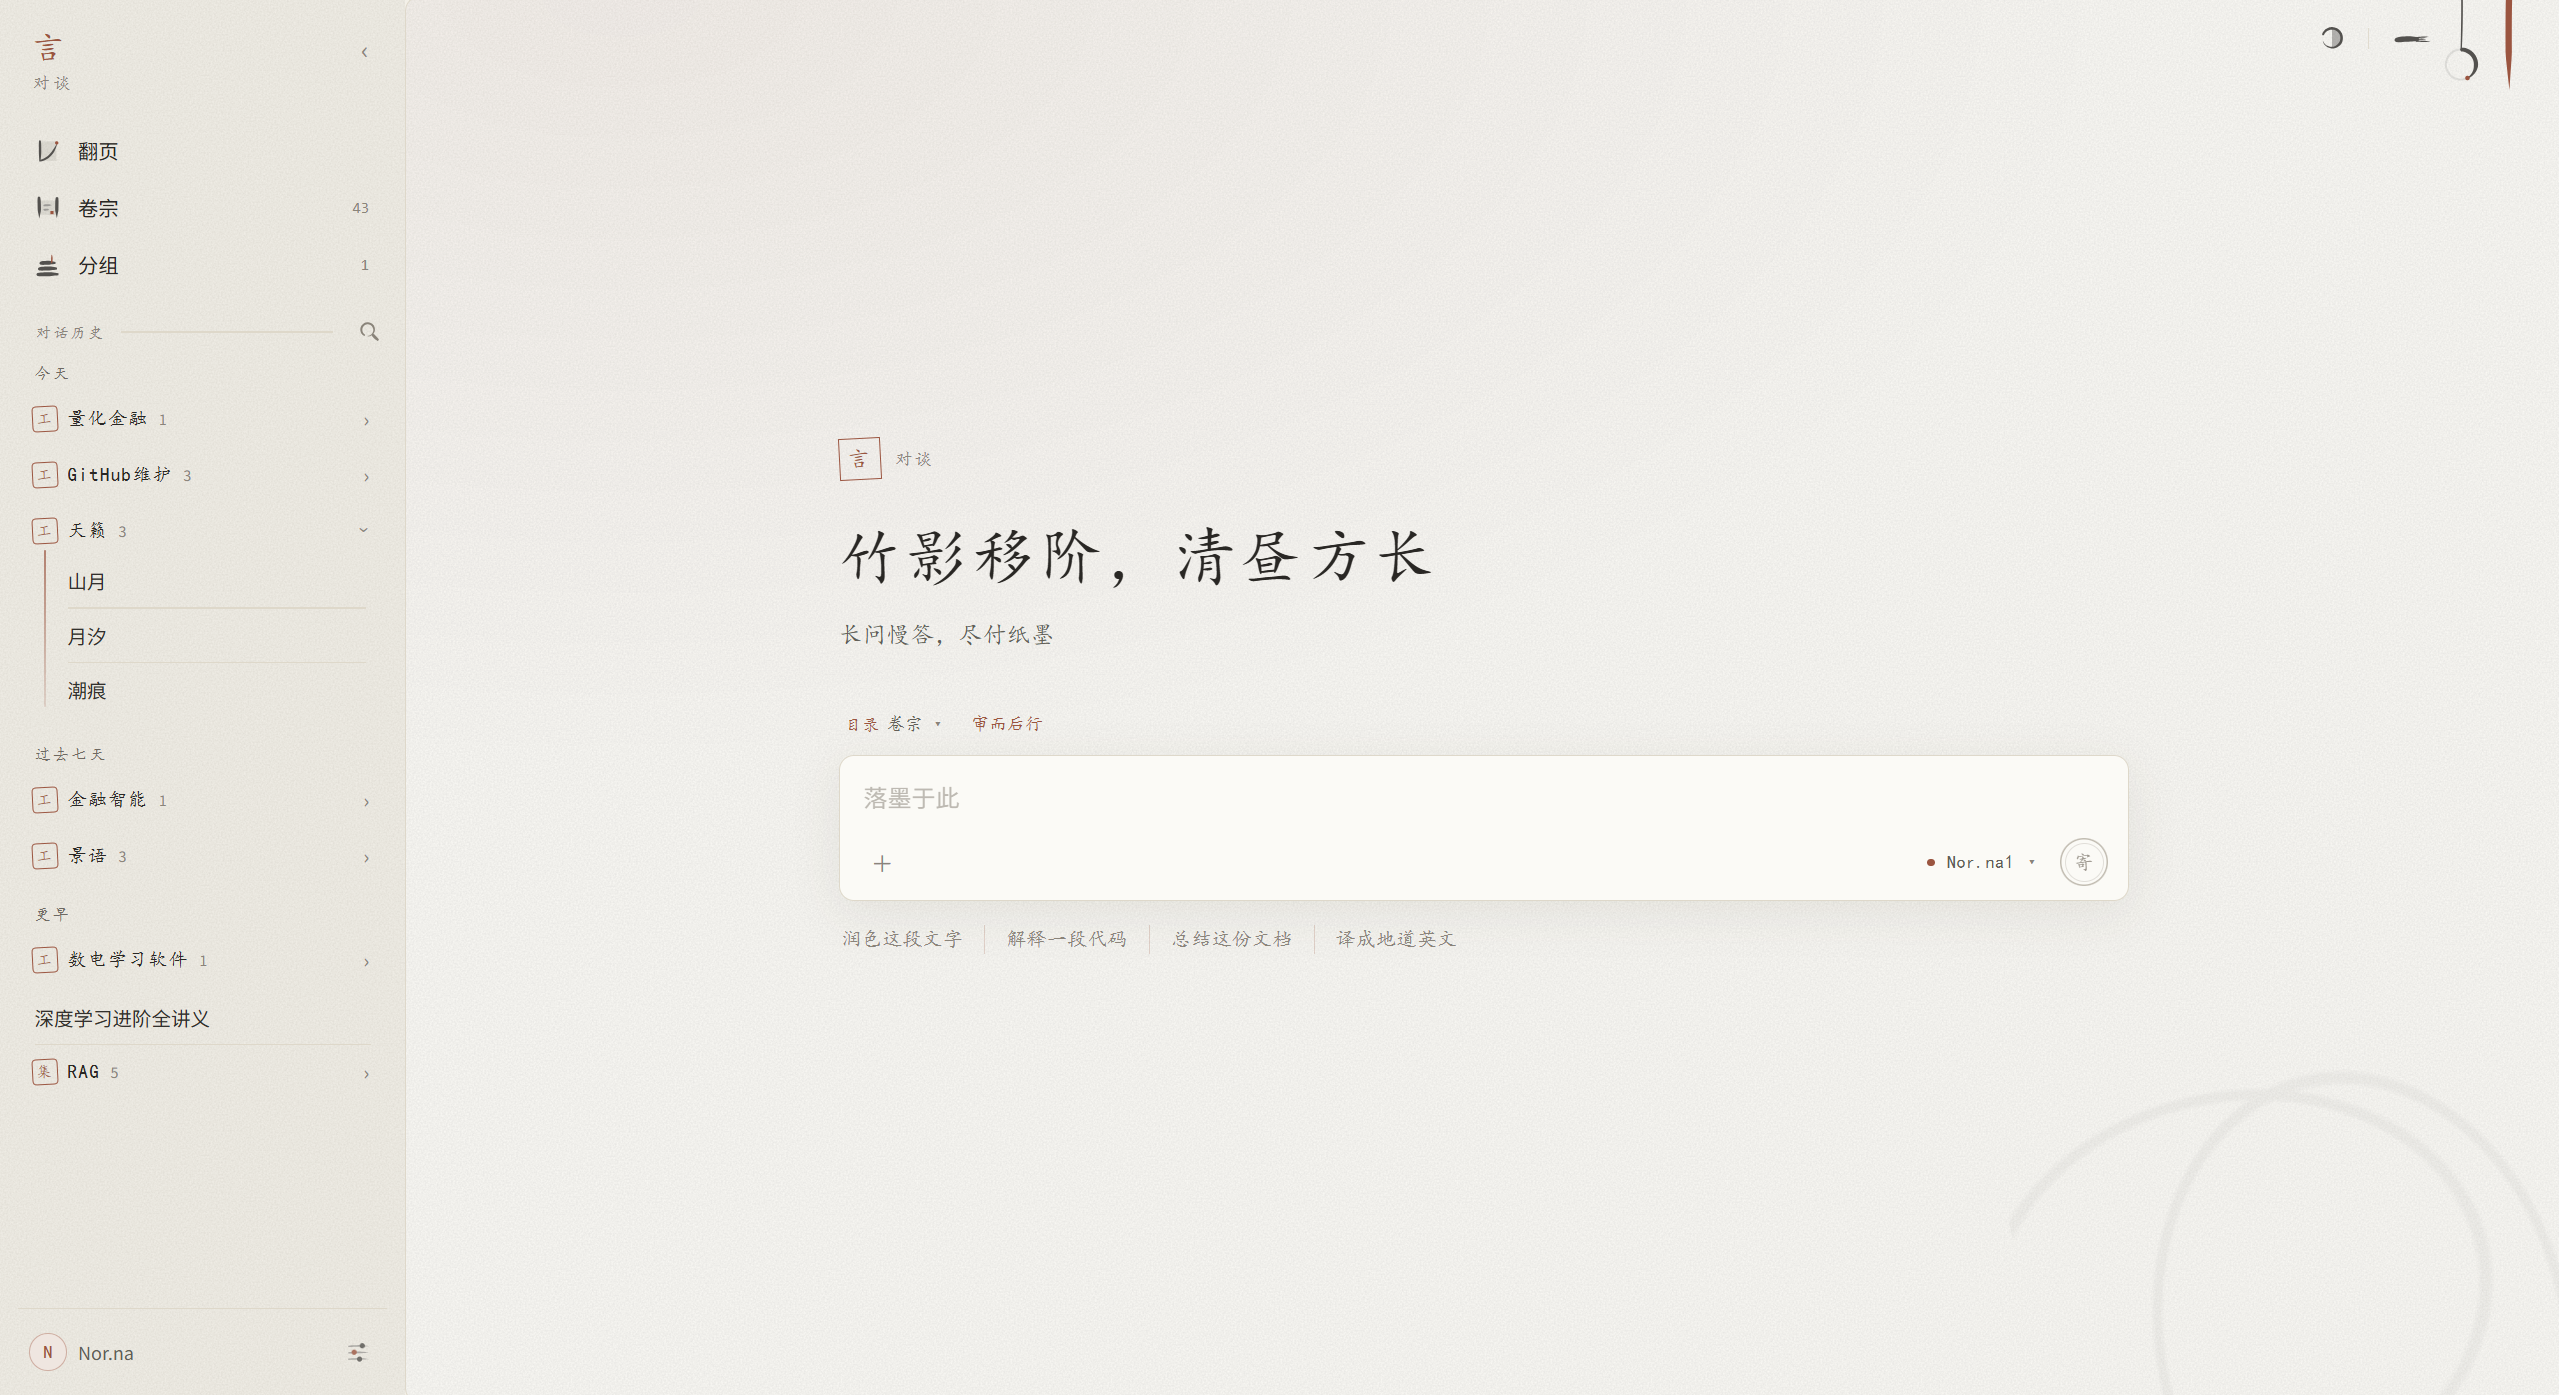
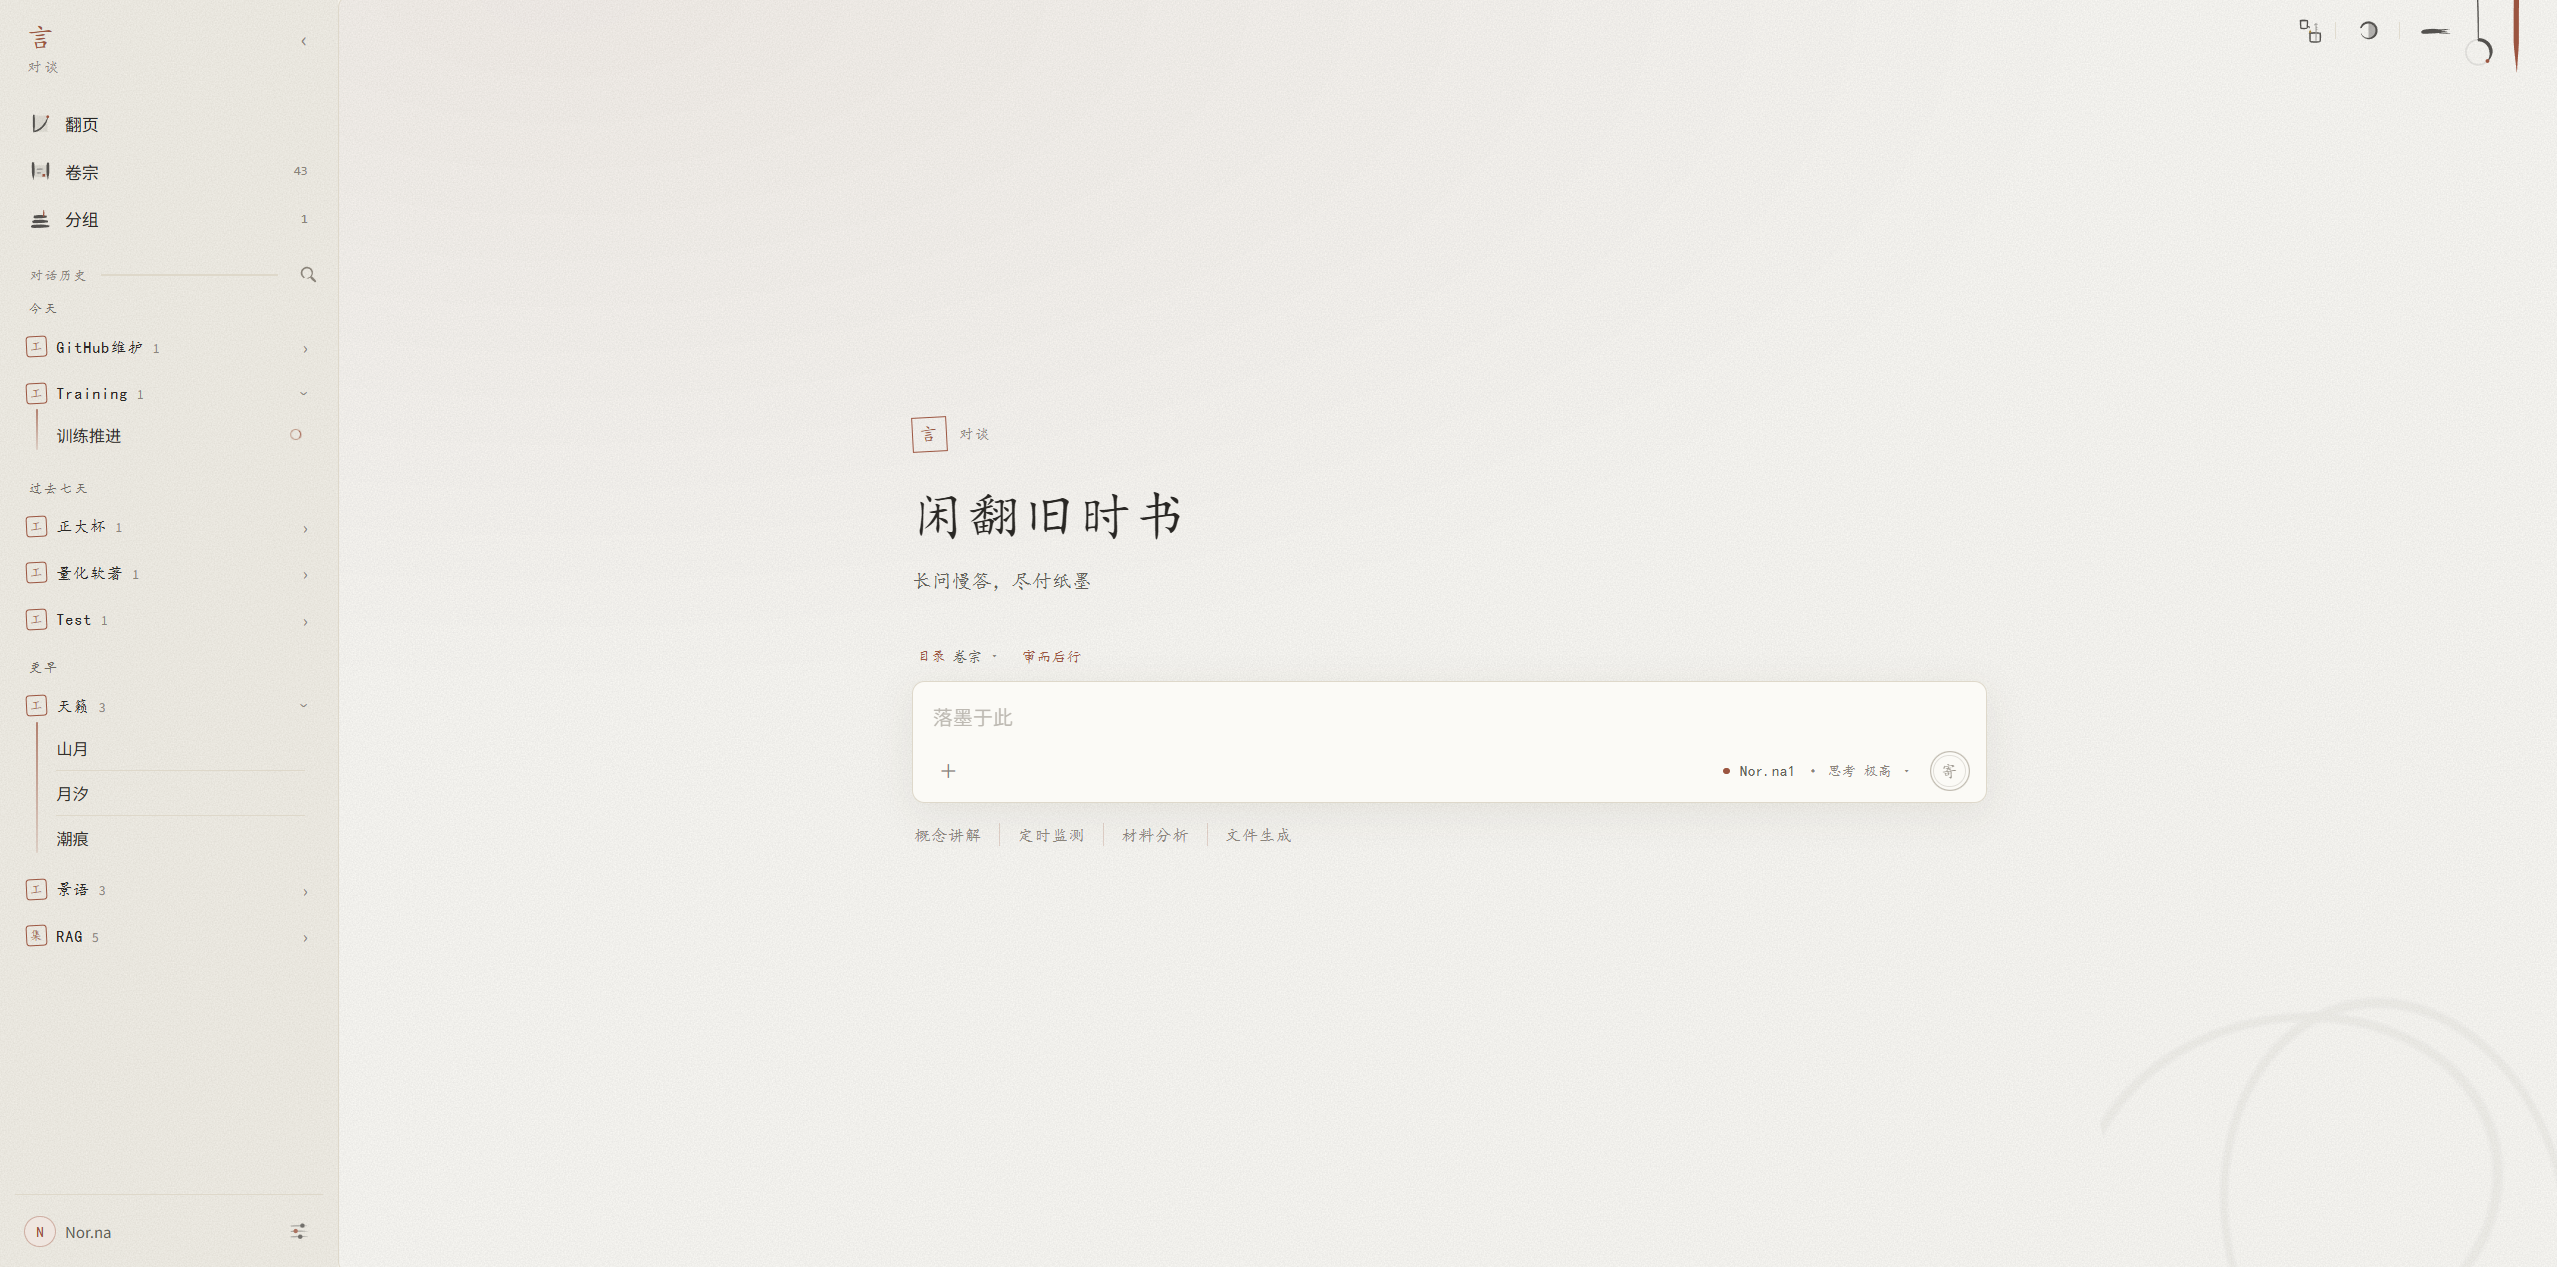
文档：README 换新首页图，添「合作伙伴」一节挂硅基流动；模型文档补硅基流动一档的说法

diff --git a/docs/models.md b/docs/models.md
@@ -8,8 +8,10 @@
 
 接 ChatGPT 订阅（接口选「ChatGPT 订阅」）走 OpenAI 给开源与本机应用开的「Sign in with ChatGPT」：卡片上点「登录」，桥接在 `127.0.0.1` 上临时开一个回调口、用系统浏览器打开 OpenAI 的授权页，用 ChatGPT 账号同意后回到言即可（头一回登记时 OpenAI 发下这台机器自己的 client_id，往后登录沿用它；在 ChatGPT 设置里能看到言、查用量、给它设每周上限）。凭证只在桥接里，存在存储根下的 `ChatGPT 登录.json`，不进页面、不进备份；访问令牌一小时，快过期时桥接用刷新令牌换新，换新被拒（登录已失效）才清掉、请你重新登录；「退出登录」向 OpenAI 吊销刷新令牌。请求直发公开的 Responses API（`api.openai.com/v1/responses`），带言自己的提示与工具，不经 Codex 那一层；桥接把请求换成 Responses 的、事件流换回 OpenAI 风格的分块。不填 Base URL 与 API Key，模型列表取这个账号可用的那几个，各模型认的思考档位随列表一起来（探档位不必真发请求）。带工具调用的那一轮，思考的加密原件随下一轮送回；同一段对话带固定的缓存键，前文走缓存。不收 temperature、输出上限，用量计入订阅额度；额度用完、套餐不支持这类拒绝换成中文说明。旧版的「Codex 订阅」（借 Codex CLI 的登录）已撤下，存着的这类模型自动改成 ChatGPT 订阅，点一回登录即可。
 
+接硅基流动（接口选「硅基流动」）即 OpenAI 兼容接口，单列一档只为填好地址（`https://api.siliconflow.cn/v1`，国际站可改成 `.com`）；换走时地址一并清掉。获取列表只取对话模型（带 `sub_type=chat`，画图、向量、语音模型不列）。思考档位：DeepSeek-V4、GLM-5.2 认 `reasoning_effort`，只有 high、max 两档；别的模型（Qwen3 之类）换成 `enable_thinking` 与 `thinking_budget`（上限 32768）。先前选「OpenAI 兼容」、地址填硅基流动的，桥接按地址一样认得。
+
 - temperature 留空即不传、由接口定（有的接口只认默认值，传了反倒报错），填了才传；`max_tokens` 只有接 Anthropic 时才有（Messages API 必填，默认 32000），OpenAI 兼容接口不传这个字段、由服务端按模型上限定，不会因为手写了个小数而把长回答截断。用量上限可选，支持 `k`（千）、`m`（百万）、`e`（亿）：留空不限，右上角改报已耗；设了则「余墨」随用量递减，耗尽后该对话暂停，更换模型或调高上限即可在原处续写。用量在每一答收尾时结算，停止、断网、工具链中途出错也照记（接口没给 usage 的那一轮按估算）；一答开工时先按「提示 + 最大输出」预留额度，几段对话同时开工时后来的看得见先来的已占多少，不会都以为还剩一样多而合计超卖
-- 模型选择在发送键旁，菜单底部是思考强度（默认 / 低 / 中 / 高 / 最高；没有「关」——要它少想就选「低」）：每个模型分别记住所选档位，切换模型时恢复该模型的选择，新对话也沿用；OpenAI 系接口发送 `reasoning_effort`，DashScope 兼容模式发送 `enable_thinking` 与 `thinking_budget`，「默认」不带字段。各家认的档位不一样（有的只有 low / medium / xhigh，有的多 minimal 或 max，有的压根不认这个字段）：选定一个模型时（菜单里选、设置里选或填模型 ID、获取列表、测试连接）会自动探一下——故意送一个不存在的档位，接口按 OpenAI 的样子报错就把报错里列的几档记到模型上，说不认识 `reasoning_effort` 就记成不认（菜单上只剩「默认」、不带字段），照单全收的中转站按通用四档列；一个模型只探一次，换了模型再探，鉴权与网络之类的错不算探过。探到的填在模型高级配置的「思考档位」里，可以手改（手改的就是定论，测试连接也不重探；换了模型才作废）；探的是这个模型此刻的身份，此前记的档位一律不沿用；菜单只列这个模型认的几档，选了它不认的档位就落到最接近的一档（选「最高」而它只到 high 就用 high），发送键旁的标签写实际送出的那一档。没探过、又撞上接口拒绝的，仍从报错里记下并换最接近的一档重发
+- 模型选择在发送键旁，菜单底部是思考强度（默认 / 低 / 中 / 高 / 最高；没有「关」——要它少想就选「低」）：每个模型分别记住所选档位，切换模型时恢复该模型的选择，新对话也沿用；OpenAI 系接口发送 `reasoning_effort`，DashScope 兼容模式与硅基流动的 Qwen 之类发送 `enable_thinking` 与 `thinking_budget`，「默认」不带字段。各家认的档位不一样（有的只有 low / medium / xhigh，有的多 minimal 或 max，有的压根不认这个字段）：选定一个模型时（菜单里选、设置里选或填模型 ID、获取列表、测试连接）会自动探一下——故意送一个不存在的档位，接口按 OpenAI 的样子报错就把报错里列的几档记到模型上，说不认识 `reasoning_effort` 就记成不认（菜单上只剩「默认」、不带字段），照单全收的中转站按通用四档列；一个模型只探一次，换了模型再探，鉴权与网络之类的错不算探过。探到的填在模型高级配置的「思考档位」里，可以手改（手改的就是定论，测试连接也不重探；换了模型才作废）；探的是这个模型此刻的身份，此前记的档位一律不沿用；菜单只列这个模型认的几档，选了它不认的档位就落到最接近的一档（选「最高」而它只到 high 就用 high），发送键旁的标签写实际送出的那一档。没探过、又撞上接口拒绝的，仍从报错里记下并换最接近的一档重发
 - 工具参数按 JSON 收，模型写得潦草也尽量救回来：裹了代码围栏、结尾多一个逗号、整段被 max_tokens 截断、把参数对象又编码成字符串，都会先修再解析；实在解析不了才算失败，回给模型的话里带上具体的出错位置、这件工具该收的参数与收到的原文，让它一次就能改对
 - 工具调用（function calling，可在模型高级配置中关闭）：`search_web` 免 Key 检索（桥接直接请求必应，同时至多三个、前后错开；必应时而把直接请求认作脚本、只认第一个词，结果里后面的词都对不上时，换无头浏览器再搜一回，DuckDuckGo 垫底；各家都对不上的照给并标明「未必可信」）、`fetch_page` 读取网页与 PDF 正文（一段 2.4 万字，长文按 `offset` 续读；PDF 在页面这头抽字，与附件同一套；网页拒了直接请求、或要跑脚本才出内容的，交给无头浏览器开一页再取）、`http_request` 向公网接口发请求（GET / POST / PUT / PATCH / DELETE / HEAD，带请求头与请求体，回状态码、响应头与正文，文本截到 6 万字、二进制只报类型与大小；本机 127.0.0.1 / localhost 放行——模型自己开的本机服务本就该能测，局域网等内网地址照旧拒，且和执事接口一样只受理本站页面的请求；旁注不给）、`read_document` 按页码或关键词翻阅对话附件与卷宗中的文档、`run_js` 在隔离沙箱里算一段 JavaScript（算术统计、日期、正则、JSON 变换——心算易错的交给它；沙箱是 `preview.html` 那个 origin 为 null、CSP 不许联网的 iframe 里的一个 Worker，fetch / importScripts / indexedDB 都抹掉，只剩标准 JS；单个表达式直接算值，语句块用 `return` 交回，`console.log` 一并带回；超时把 Worker 整个杀掉；不经桥接）、`download_file` 把网上的文件存进工作目录或卷宗（本机放行、内网拒，同上；最大 64 MB，省略路径按网址里的文件名，同名加 (2)，计入这一答的改动摘要），行里另有 `update_plan`（任务不止几步时列一份计划给用户看，行迹里画成一张清单卡：○ 待做、▶ 正在做、✓ 做完、– 不做了，每次给完整清单，下一问的行迹摘要里带着它）与 `update_intent`（意：跨多答的长活立一份结论图，存于目录 `.yan/意.json`、换对话也沿用，见[言与行 · 执事](work.md#意)）；全部合并在「行迹」折叠区，每一步以转圈 / ✓ / × 表示运行、成功与失败；同一轮的重复调用直接复用已有结果（只复用成功的）；同一轮里相邻的只读调用（读文件、搜索、翻网页、翻记忆）并行执行，结果仍按原顺序回传；执行、写入、修改与请示逐个来
 - 联网回答结束后从成功的搜索与网页读取步骤生成去重的「出处」卡片，已阅读全文的来源单独标记

diff --git a/README.md b/README.md
@@ -15,7 +15,7 @@
 - **页内可视化**：模型写一页自足的 HTML，在隔离沙箱里就地渲染成可交互的一块，与正文同一张纸；ECharts、Mermaid 随项目本地分发，按需载。[详见](docs/chat.md#呈现)
 - **长活自己跑得下去**：目录里立一份账本（约束与取舍）与一份「意」（要立住的结论图：前提、验收、凭据，凭据变了即转待复核），跨对话沿用；后台指令结束即叫醒模型，帮手可独自开训练、睡下、醒来评估再交差；上下文将满时自己压成工作笔记接着做。[详见](docs/work.md#意)
 - **游目**：模型所用的浏览器收进右侧一栏，它点哪儿、输入什么看得见，也随时接得过手；圈点画面即可指给它看。[详见](docs/stage.md)
-- **多方模型**：可添多个接口、切换默认模型，OpenAI 兼容、Anthropic 与 ChatGPT 订阅（官方登录）皆可；思考档位按各家所认自动探明。[详见](docs/models.md)
+- **多方模型**：可添多个接口、切换默认模型，OpenAI 兼容、Anthropic、ChatGPT 订阅（官方登录）与硅基流动皆可；思考档位按各家所认自动探明。[详见](docs/models.md)
 - **纸墨一以贯之**：印、砚、余墨、落墨与天光，界面与动效同一套笔墨。
 - **本地、零依赖、可控**：数据只落在本机的存储目录（默认 `~/.yan/`），不经任何云端；仅需 Node.js 18+，不装 npm 包；指令权限分三档、默认逐条请示，另套一层沙箱。[存储](docs/storage.md) · [权限与沙箱](docs/sandbox.md)
 
@@ -32,6 +32,10 @@ npm start
 浏览器会打开 `http://127.0.0.1:8787`。在「设置 → 模型」中填写显示名称、模型 ID、Base URL 与 API Key 即可开始。`start.cmd` 打开的窗口即本机桥接，须保持开启。界面里的用法见「设置 → 文档」；VS Code 内使用、直接打开 `index.html`、环境变量见 [启动与运行](docs/start.md)。
 
 macOS 上双击 `start.command`（头一回若被拦，在访达里右键选「打开」）。「环境」工具包只备了 Windows 版；沙箱规则按 PowerShell 写，在 macOS 上拦得较松。
+
+## 合作伙伴
+
+[硅基流动 SiliconFlow](https://siliconflow.cn)：DeepSeek、Qwen、GLM、Kimi 等模型一处可用。在「设置 → 模型」的接口里选「硅基流动」，填上自己的 API Key 即可，地址已填好，模型列表只列对话模型，思考档位按各模型所认换算。
 
 ## 许可与致谢
 
